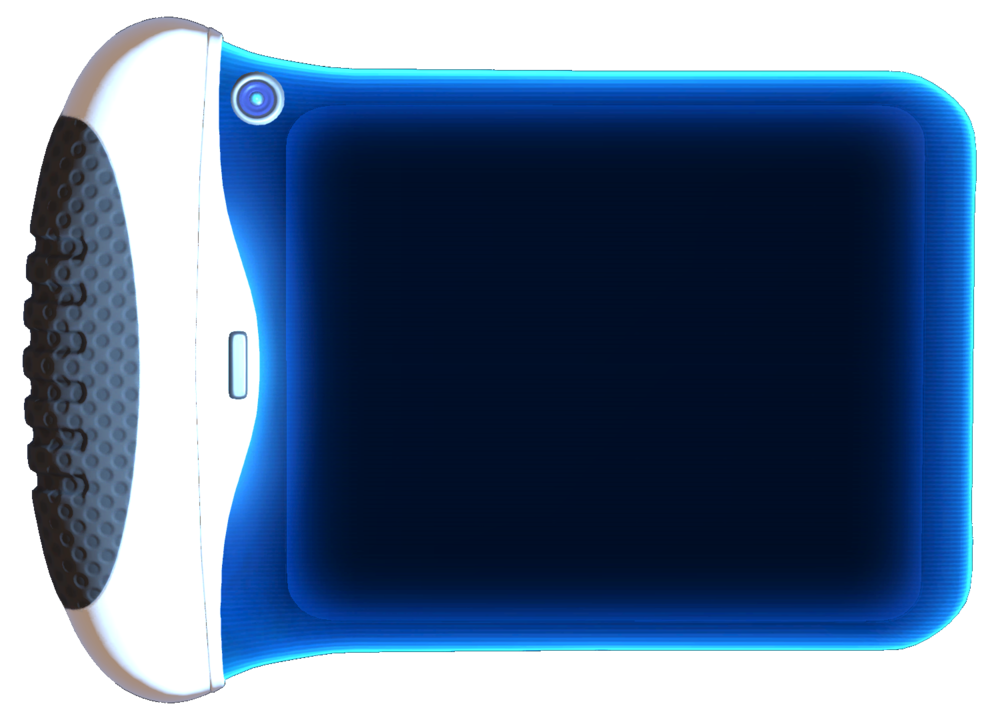
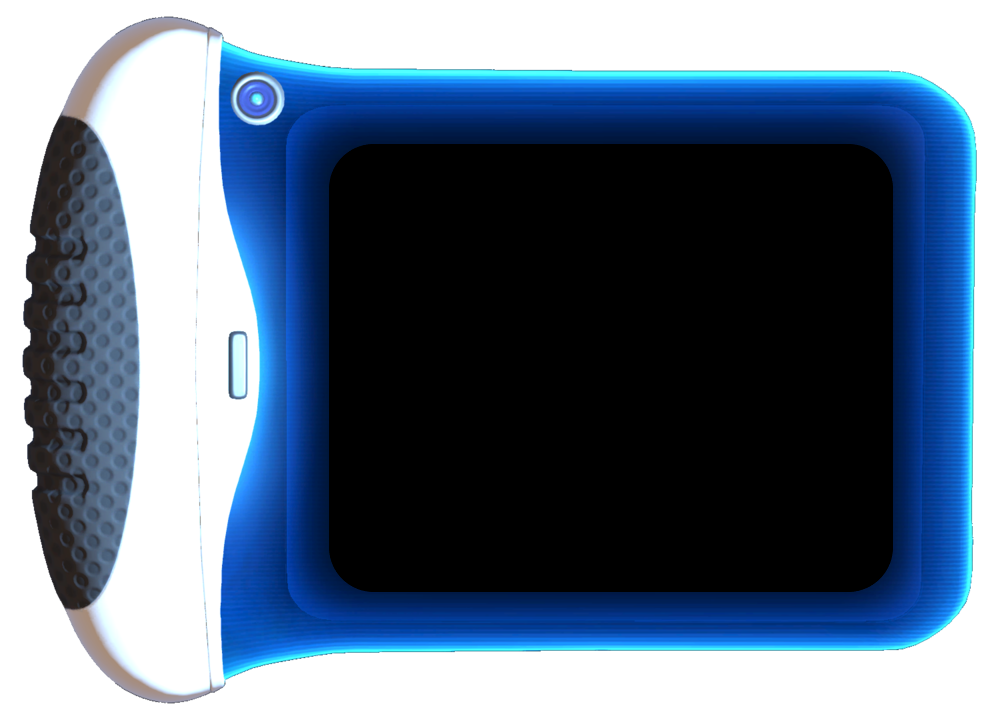
Agrego un hud de inventario.

diff --git a/TGC.Group/Model/Game2DManager.cs b/TGC.Group/Model/Game2DManager.cs
@@ -36,7 +36,7 @@ namespace TGC.Group.Model
             public static TGCVector2 MOUSE_POINTER_POSITION = new TGCVector2((SCREEN_WIDTH - MOUSE_POINTER_SIZE.X) / 2, (SCREEN_HEIGHT - MOUSE_POINTER_SIZE.Y) / 2);
             public static TGCVector2 INVENTORY_TEXT_SIZE = new TGCVector2(300, 300);
             public static TGCVector2 INVENTORY_TEXT_POSITION = new TGCVector2(10, SCREEN_HEIGHT - INVENTORY_TEXT_SIZE.Y);
-            public static string INVENTORY_TEXT_WITHOUT_ITEMS = "Inventory without items!";
+           // public static string INVENTORY_TEXT_WITHOUT_ITEMS = "Inventory without items!";
             public static string HELP_TEXT = "FOR HELP, PRESS F1 KEY";
             public static string SHIP_EXIT_TEXT = "PRESS E TO EXIT";
             public static string SHIP_ENTER_TEXT = "PRESS E TO ENTER";
@@ -199,7 +199,8 @@ namespace TGC.Group.Model
 
         private void InitializerInventoryText()
         {
-            InventoryText.SetTextSizeAndPosition(text: Constants.INVENTORY_TEXT_WITHOUT_ITEMS, Constants.INVENTORY_TEXT_SIZE, Constants.INVENTORY_TEXT_POSITION);
+            //InventoryText.SetTextSizeAndPosition(text: Constants.INVENTORY_TEXT_WITHOUT_ITEMS, Constants.INVENTORY_TEXT_SIZE, Constants.INVENTORY_TEXT_POSITION);
+            InventoryText.SetTextSizeAndPosition(text: "", Constants.INVENTORY_TEXT_SIZE, Constants.INVENTORY_TEXT_POSITION);
             InventoryText.Color = Color.Black;
         }
 
@@ -267,12 +268,12 @@ namespace TGC.Group.Model
                     DistanceShipLocation.Text = DistanceWithShip.ToString();
                     DistanceShipLocation.Render();
                 }
+                InventoryText.Render();
             }
             else
             {
                 MousePointer.Position = new TGCVector2(Cursor.Position.X - 16, Cursor.Position.Y - 16);
                 MousePointer.Render();
-                InventoryText.Render();
             }
         }
 
@@ -293,8 +294,8 @@ namespace TGC.Group.Model
                                      "\nFish: " + items["NORMALFISH"].Count + "\nYellow Fish: " + items["YELLOWFISH"].Count +
                                      "\nSpiral Coral: " + items["SPIRALCORAL"].Count + "\nNormal Coral: " + items["NORMALCORAL"].Count +
                                      "\nTree Coral: " + items["TREECORAL"].Count;
-            else
-                InventoryText.Text = Constants.INVENTORY_TEXT_WITHOUT_ITEMS;
+            //else
+            //    InventoryText.Text = Constants.INVENTORY_TEXT_WITHOUT_ITEMS;
         }
 
         private void UpdateSprite(DrawSprite sprite, float percentage, float max) => sprite.Scaling = new TGCVector2((percentage / max) * sprite.ScalingInitial.X, sprite.ScalingInitial.Y);

diff --git a/TGC.Group/Utils/FullQuad.cs b/TGC.Group/Utils/FullQuad.cs
@@ -19,6 +19,7 @@ namespace TGC.Group.Utils
         private Texture RenderTarget2D { get; set; }
         private TgcTexture AlarmTexture { get; set; }
         private TgcTexture DivingHelmetTexture { get; set; }
+        private TgcTexture PDA { get; set; }
         private InterpoladorVaiven IntVaivenAlarm;
 
         private readonly Device Device = D3DDevice.Instance.Device;
@@ -28,6 +29,7 @@ namespace TGC.Group.Utils
         public string MediaDir { get; set; }
         public bool RenderTeleportEffect { get; set; }
         public bool RenderAlarmEffect { get; set; }
+        public bool RenderPDA { get; set; }
         private readonly float ElapsedTime;
 
         public FullQuad(string mediaDir, string shadersDir, float elapsedTime)
@@ -57,6 +59,7 @@ namespace TGC.Group.Utils
             Effect.Technique = "DefaultTechnique";
             AlarmTexture = TgcTexture.createTexture(D3DDevice.Instance.Device, MediaDir + @"Textures\alarm.png");
             DivingHelmetTexture = TgcTexture.createTexture(D3DDevice.Instance.Device, MediaDir + @"Imagenes\divingHelmet.png");
+            PDA = TgcTexture.createTexture(D3DDevice.Instance.Device, MediaDir + @"Imagenes\PDA.png");
             IntVaivenAlarm = new InterpoladorVaiven
             {
                 Min = 0,
@@ -66,6 +69,7 @@ namespace TGC.Group.Utils
             IntVaivenAlarm.reset();
             Effect.SetValue("texture_alarm", AlarmTexture.D3dTexture);
             Effect.SetValue("texture_diving_helmet", DivingHelmetTexture.D3dTexture);
+            Effect.SetValue("texture_PDA", PDA.D3dTexture);
         }
 
         public void SetTime(float value) => Time = FastMath.Clamp(Time + value, 0, 10);
@@ -115,6 +119,9 @@ namespace TGC.Group.Utils
                 else
                     Effect.Technique = "DivingHelmet";
             }
+
+            if (RenderPDA)
+                Effect.Technique = "PDA";
 
             Device.Clear(ClearFlags.Target | ClearFlags.ZBuffer, Color.Black, 1f, 0);
 

diff --git a/TGC.Group/Model/GameModel.cs b/TGC.Group/Model/GameModel.cs
@@ -1,15 +1,9 @@
 using Microsoft.DirectX.Direct3D;
 using Microsoft.DirectX.DirectInput;
-using System.Collections.Generic;
-using System.Security.Policy;
 using TGC.Core.Direct3D;
 using TGC.Core.Example;
-using TGC.Group.Model.Objects;
 using TGC.Group.Model.Status;
 using TGC.Group.Utils;
-using System.Threading;
-using TGC.Core.Mathematica;
-using System;
 
 namespace TGC.Group.Model
 {
@@ -90,7 +84,8 @@ namespace TGC.Group.Model
 
             TimeToRevive = 0;
 
-            if (Input.keyPressed(Key.I)) Draw2DManager.ActiveInventory = camera.Lock = ActiveInventory = !ActiveInventory;
+            if (Input.keyPressed(Key.I)) Draw2DManager.ActiveInventory = camera.Lock =
+                    FullQuad.RenderPDA = ActiveInventory = !ActiveInventory;
 
             if (!ActiveInventory)
             {
@@ -104,7 +99,7 @@ namespace TGC.Group.Model
                 CharacterStatus.Update();
                 FullQuad.RenderAlarmEffect = CharacterStatus.ActiveRenderAlarm;
                 Draw2DManager.DistanceWithShip = FastUtils.DistanceBetweenVectors(camera.Position, ObjectManager.Ship.PositionShip);
-                Draw2DManager.ShowIndicatorShip = Draw2DManager.DistanceWithShip > 15000 && !ObjectManager.Character.IsInsideShip ;
+                Draw2DManager.ShowIndicatorShip = Draw2DManager.DistanceWithShip > 15000 && !ObjectManager.Character.IsInsideShip;
                 if (CharacterStatus.ActiveAlarmForDamageReceived)
                 {
                     TimeToAlarm += ElapsedTime;
@@ -121,9 +116,7 @@ namespace TGC.Group.Model
                 ObjectManager.Character.AttackedShark = SharkStatus.DamageReceived;
                 Draw2DManager.Update();
                 Draw2DManager.UpdateItems(InventoryManager.Items);
-
-
-            }
+            }            
 
             if (Input.keyPressed(Key.E)) ObjectManager.Character.Teleport();
 
